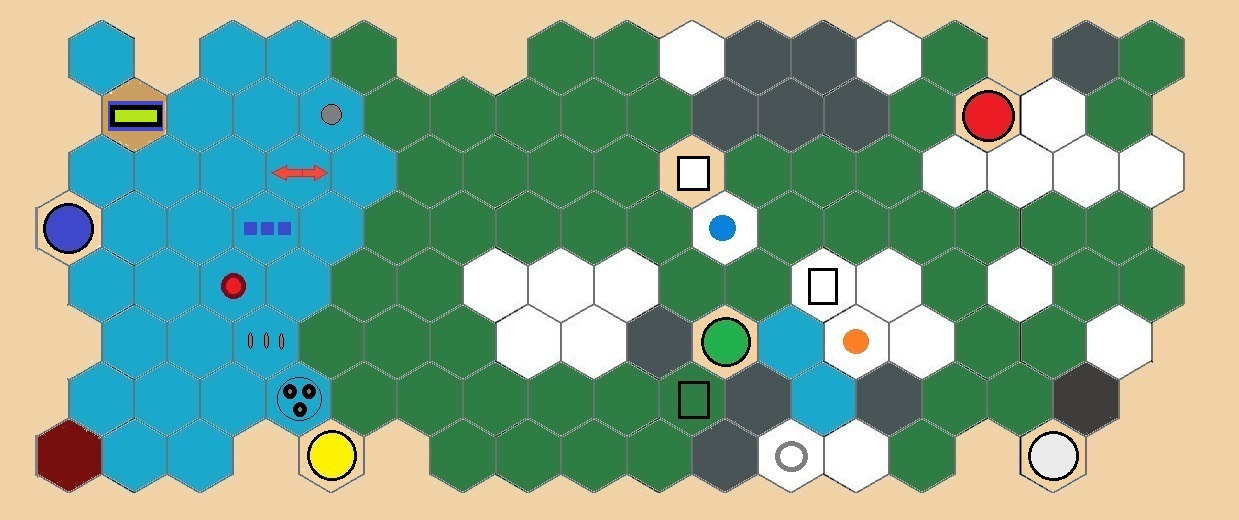
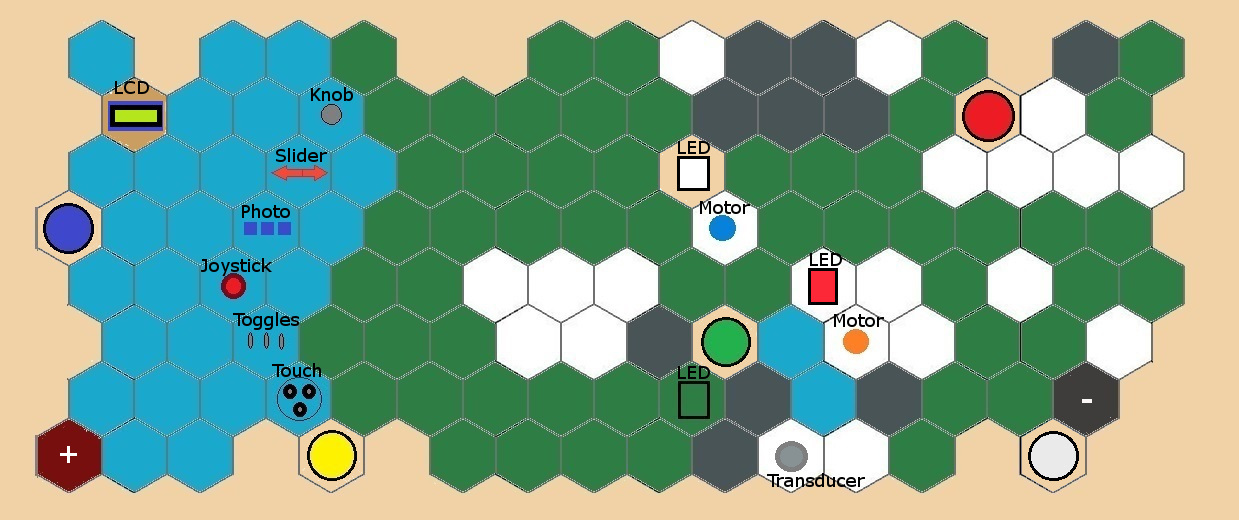
Improved hex picture/concept documentation

diff --git a/documentation/Concept.md b/documentation/Concept.md
@@ -21,6 +21,10 @@ On the right (mountain) side are "battery negative" terminal and six outputs:
 * LED array (green)
 * Transducer (speaker)
 
-The circuits allow any one of the input types to be connected to one fo the outputs using a series of wooden blocks to bridge across the intervening hexes.  When a full connection between the positive/input/output/negative conenction are made, the input will manipulate the output.
+The circuits allow any one of the input types to be connected to one of the outputs using a series of wooden blocks to bridge across the intervening hexes.  When a full connection between the positive/input/output/negative conenction are made, the input will manipulate the output.
 
 The board also has five large illuminated colored buttons (Red, Green, White, Blue, Yellow) that are associated with electroluminescent wire wrapped under the hexes.  
+
+A LCD with a selectable color backlight occupies a hex in th upper-left corner of the board.
+
+All components are software controllable, independent of each other.  While the students appear to be creating circuits, in fact the grid connections are only inputs to the Arduino.
